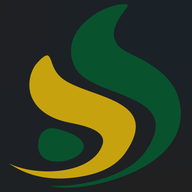
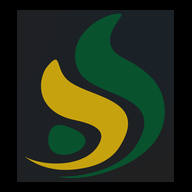
Corrige formulário (lista municípios MS + feedback visível) e ícone sem corte

diff --git a/app.py b/app.py
@@ -183,6 +183,24 @@ def fmt_brl(v, dec=2):
     s = f"{v:,.{dec}f}".replace(",", "X").replace(".", ",").replace("X", ".")
     return f"R$ {s}"
 
+# ─── MUNICÍPIOS PADRÃO MS ─────────────────────────────────────────────────────
+MUNICIPIOS_MS = [
+    "Água Clara","Alcinópolis","Amambai","Anastácio","Anaurilândia","Angélica",
+    "Antônio João","Aparecida do Taboado","Aquidauana","Aral Moreira","Bandeirantes",
+    "Bataguassu","Batayporã","Bela Vista","Bodoquena","Bonito","Brasilândia",
+    "Caarapó","Camapuã","Campo Grande","Caracol","Cassilândia","Chapadão do Sul",
+    "Corguinho","Coronel Sapucaia","Corumbá","Costa Rica","Coxim","Deodápolis",
+    "Dois Irmãos do Buriti","Douradina","Dourados","Eldorado","Fátima do Sul",
+    "Figueirão","Glória de Dourados","Guia Lopes da Laguna","Iguatemi","Inocência",
+    "Itaporã","Itaquiraí","Ivinhema","Japorã","Jaraguari","Jardim","Jateí","Juti",
+    "Ladário","Laguna Carapã","Maracaju","Miranda","Mundo Novo","Naviraí","Nioaque",
+    "Nova Alvorada do Sul","Nova Andradina","Novo Horizonte do Sul","Paraíso das Águas",
+    "Paranaíba","Paranhos","Pedro Gomes","Ponta Porã","Porto Murtinho",
+    "Ribas do Rio Pardo","Rio Brilhante","Rio Negro","Rio Verde de Mato Grosso",
+    "Rochedo","Santa Rita do Pardo","São Gabriel do Oeste","Selvíria","Sete Quedas",
+    "Sidrolândia","Sonora","Tacuru","Taquarussu","Terenos","Três Lagoas","Vicentina",
+]
+
 # ─── COLUNAS EXCEL ────────────────────────────────────────────────────────────
 COLUNAS_EXCEL = [
     "Data","Técnico","Município","Área (ha)","Produtividade (sc/ha)","Preço Venda (R$/sc)",
@@ -201,13 +219,16 @@ COLUNAS_EXCEL = [
 def load_municipios():
     path = os.path.join(BASE_DIR, "Regiões.xlsx")
     if not os.path.exists(path):
-        return []
-    wb = openpyxl.load_workbook(path, read_only=True, data_only=True)
-    ws = wb["Planilha1"]
-    munis = sorted({str(row[1]).strip() for row in ws.iter_rows(min_row=2, values_only=True)
-                    if row[1] and str(row[1]).strip()})
-    wb.close()
-    return munis
+        return MUNICIPIOS_MS  # fallback com lista completa de MS
+    try:
+        wb = openpyxl.load_workbook(path, read_only=True, data_only=True)
+        ws = wb["Planilha1"]
+        munis = sorted({str(row[1]).strip() for row in ws.iter_rows(min_row=2, values_only=True)
+                        if row[1] and str(row[1]).strip()})
+        wb.close()
+        return munis if munis else MUNICIPIOS_MS
+    except Exception:
+        return MUNICIPIOS_MS
 
 @st.cache_data(ttl=300)
 def load_precos_ref():
@@ -639,9 +660,12 @@ st.markdown('<div class="sim-header"><h3>📋 Informe os Dados da Sua Lavoura</h
 st.markdown(
     f'<p style="color:{_MUTED};font-size:0.85rem;font-family:{_FONT};margin-bottom:12px">'
     f'Preencha os valores gastos em cada item da lavoura. '
-    f'<b style="color:#e8f0eb">Campos obrigatórios:</b> Município, Área e Produtividade.</p>',
+    f'<b style="color:#e8f0eb">Campos obrigatórios:</b> Técnico, Município, Área e Produtividade.</p>',
     unsafe_allow_html=True,
 )
+
+# Área de feedback — aparece ACIMA do formulário
+_feedback = st.container()
 
 _municipios         = load_municipios()
 _preco_soja, _preco_milho = load_precos_ref()
@@ -718,14 +742,15 @@ if cleared:
 
 if submitted:
     erros = []
-    if not sim_tecnico.strip(): erros.append("Técnico é obrigatório.")
-    if not sim_mun:             erros.append("Município é obrigatório.")
-    if sim_area  <= 0:          erros.append("Área deve ser maior que zero.")
-    if sim_prod  <= 0:          erros.append("Produtividade deve ser maior que zero.")
+    if not sim_tecnico.strip(): erros.append("⚠ **Técnico** é obrigatório.")
+    if not sim_mun:             erros.append("⚠ **Município** é obrigatório.")
+    if sim_area  <= 0:          erros.append("⚠ **Área** deve ser maior que zero.")
+    if sim_prod  <= 0:          erros.append("⚠ **Produtividade** deve ser maior que zero.")
 
     if erros:
-        for e in erros:
-            st.error(e)
+        with _feedback:
+            for e in erros:
+                st.error(e, icon="🚨")
     else:
         _dep_total = v_dep * sim_area
         custo_r    = sum([v_sem, v_trat, v_corr, v_fert, v_fung, v_herb,
@@ -777,17 +802,21 @@ if submitted:
                 ok, err = _push_dados_github()
                 if ok:
                     _mark_synced()
-                    st.success(f"✅ Dados salvos e sincronizados com o repositório (aba: {sim_mun})")
+                    with _feedback:
+                        st.success(f"✅ Dados de **{sim_tecnico.strip()}** salvos e sincronizados! (aba: {sim_mun})")
                 else:
                     _mark_pending()
-                    st.success(f"✅ Dados salvos localmente (aba: {sim_mun})")
-                    st.caption(f"⚠ Sincronização pendente: {err}")
+                    with _feedback:
+                        st.success(f"✅ Dados de **{sim_tecnico.strip()}** salvos localmente. (aba: {sim_mun})")
+                        st.caption(f"⚠ Sincronização pendente: {err}")
             else:
                 _mark_pending()
-                st.success(f"✅ Dados salvos localmente (aba: {sim_mun})")
-                st.info("📴 Sem conexão com a internet — os dados sincronizarão automaticamente ao reconectar.")
+                with _feedback:
+                    st.success(f"✅ Dados de **{sim_tecnico.strip()}** salvos localmente. (aba: {sim_mun})")
+                    st.info("📴 Sem conexão — sincronizará automaticamente ao reconectar.")
         except Exception as ex:
-            st.warning(f"Não foi possível salvar: {ex}")
+            with _feedback:
+                st.error(f"❌ Erro ao salvar: {ex}", icon="🚨")
 
 # ─── FOOTER ───────────────────────────────────────────────────────────────────
 st.divider()
